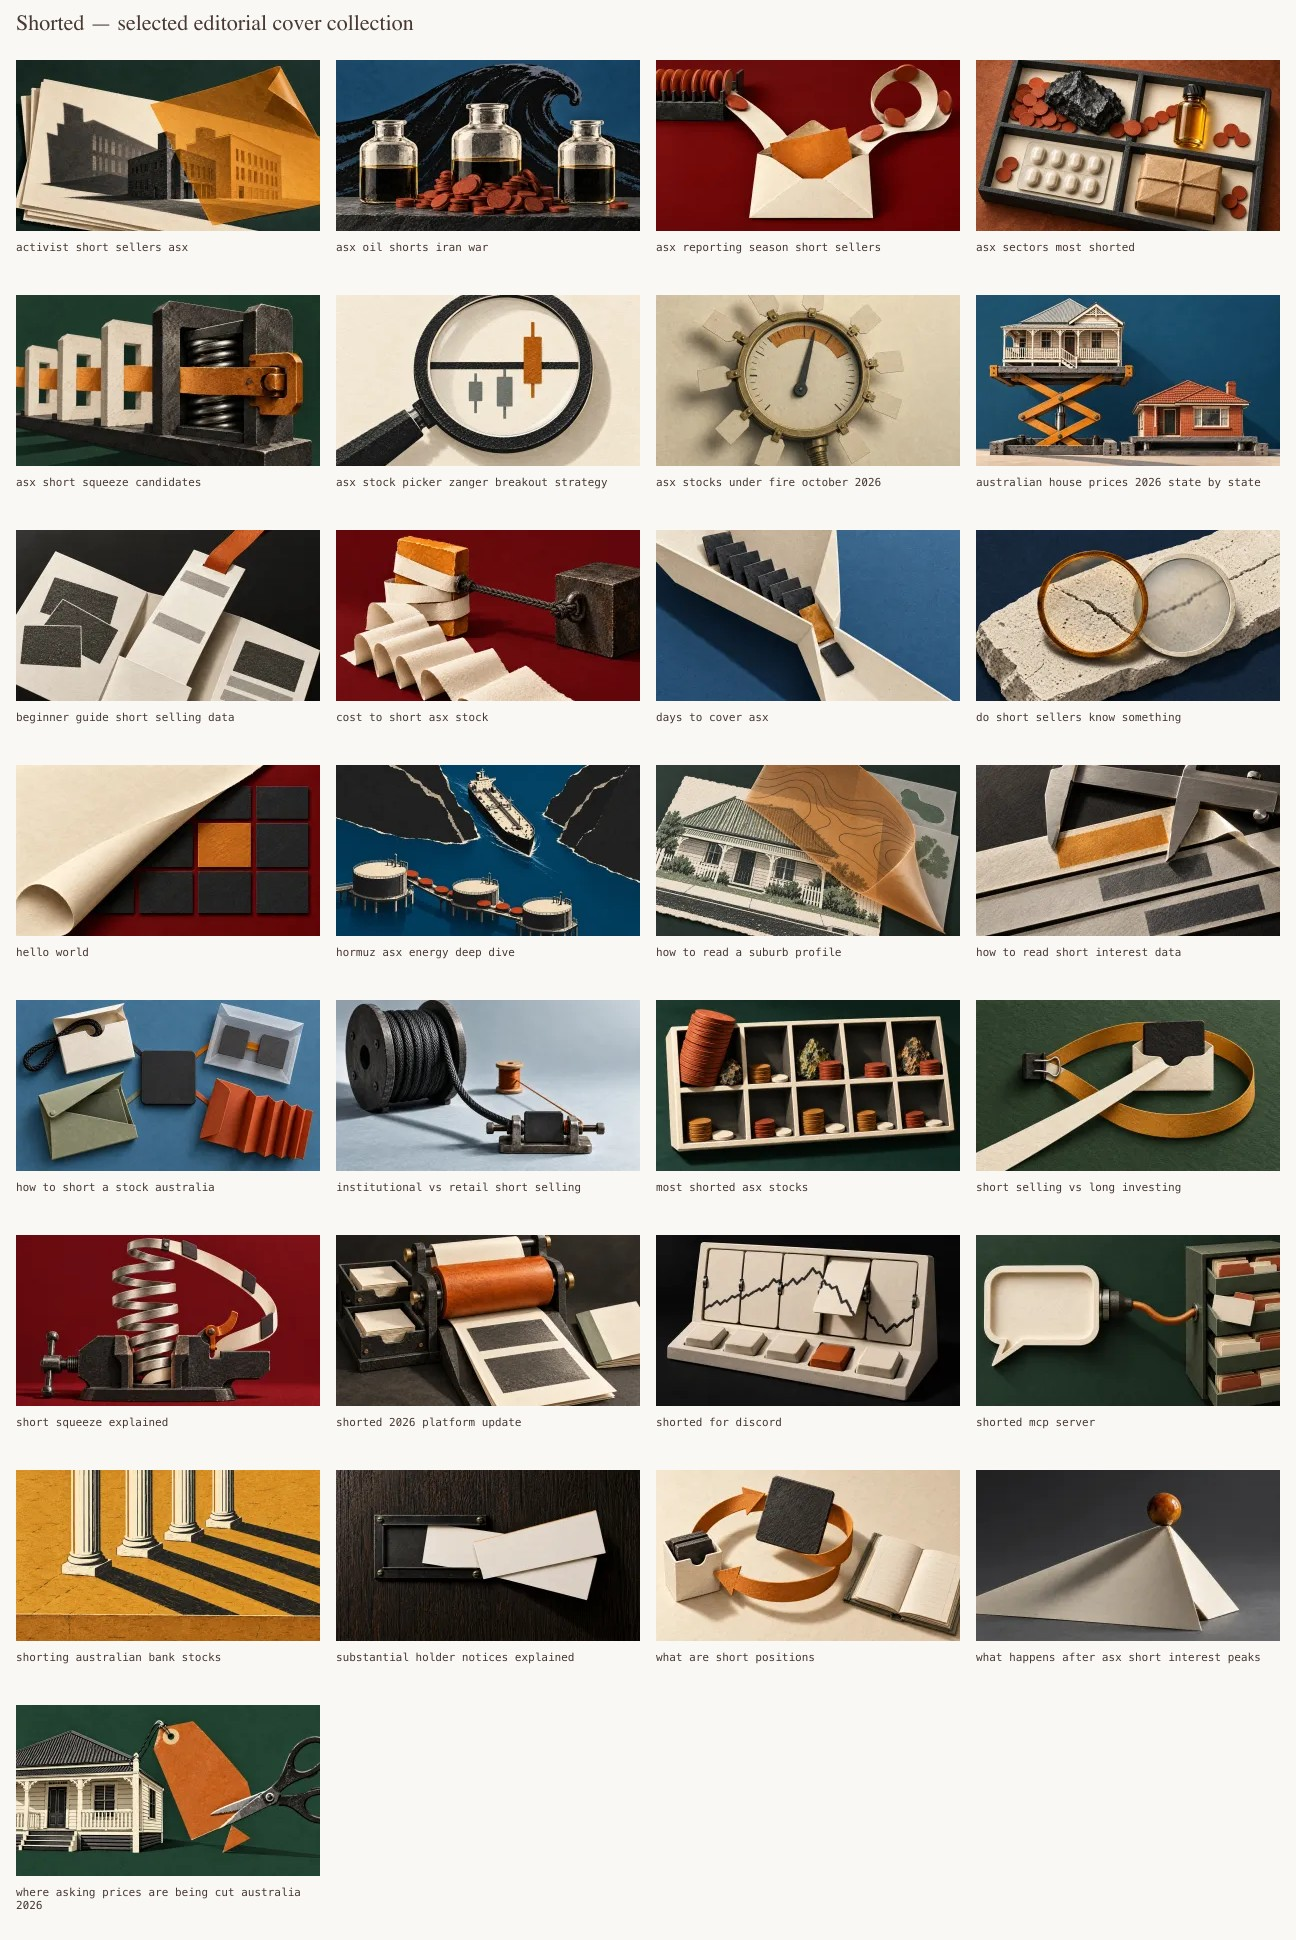
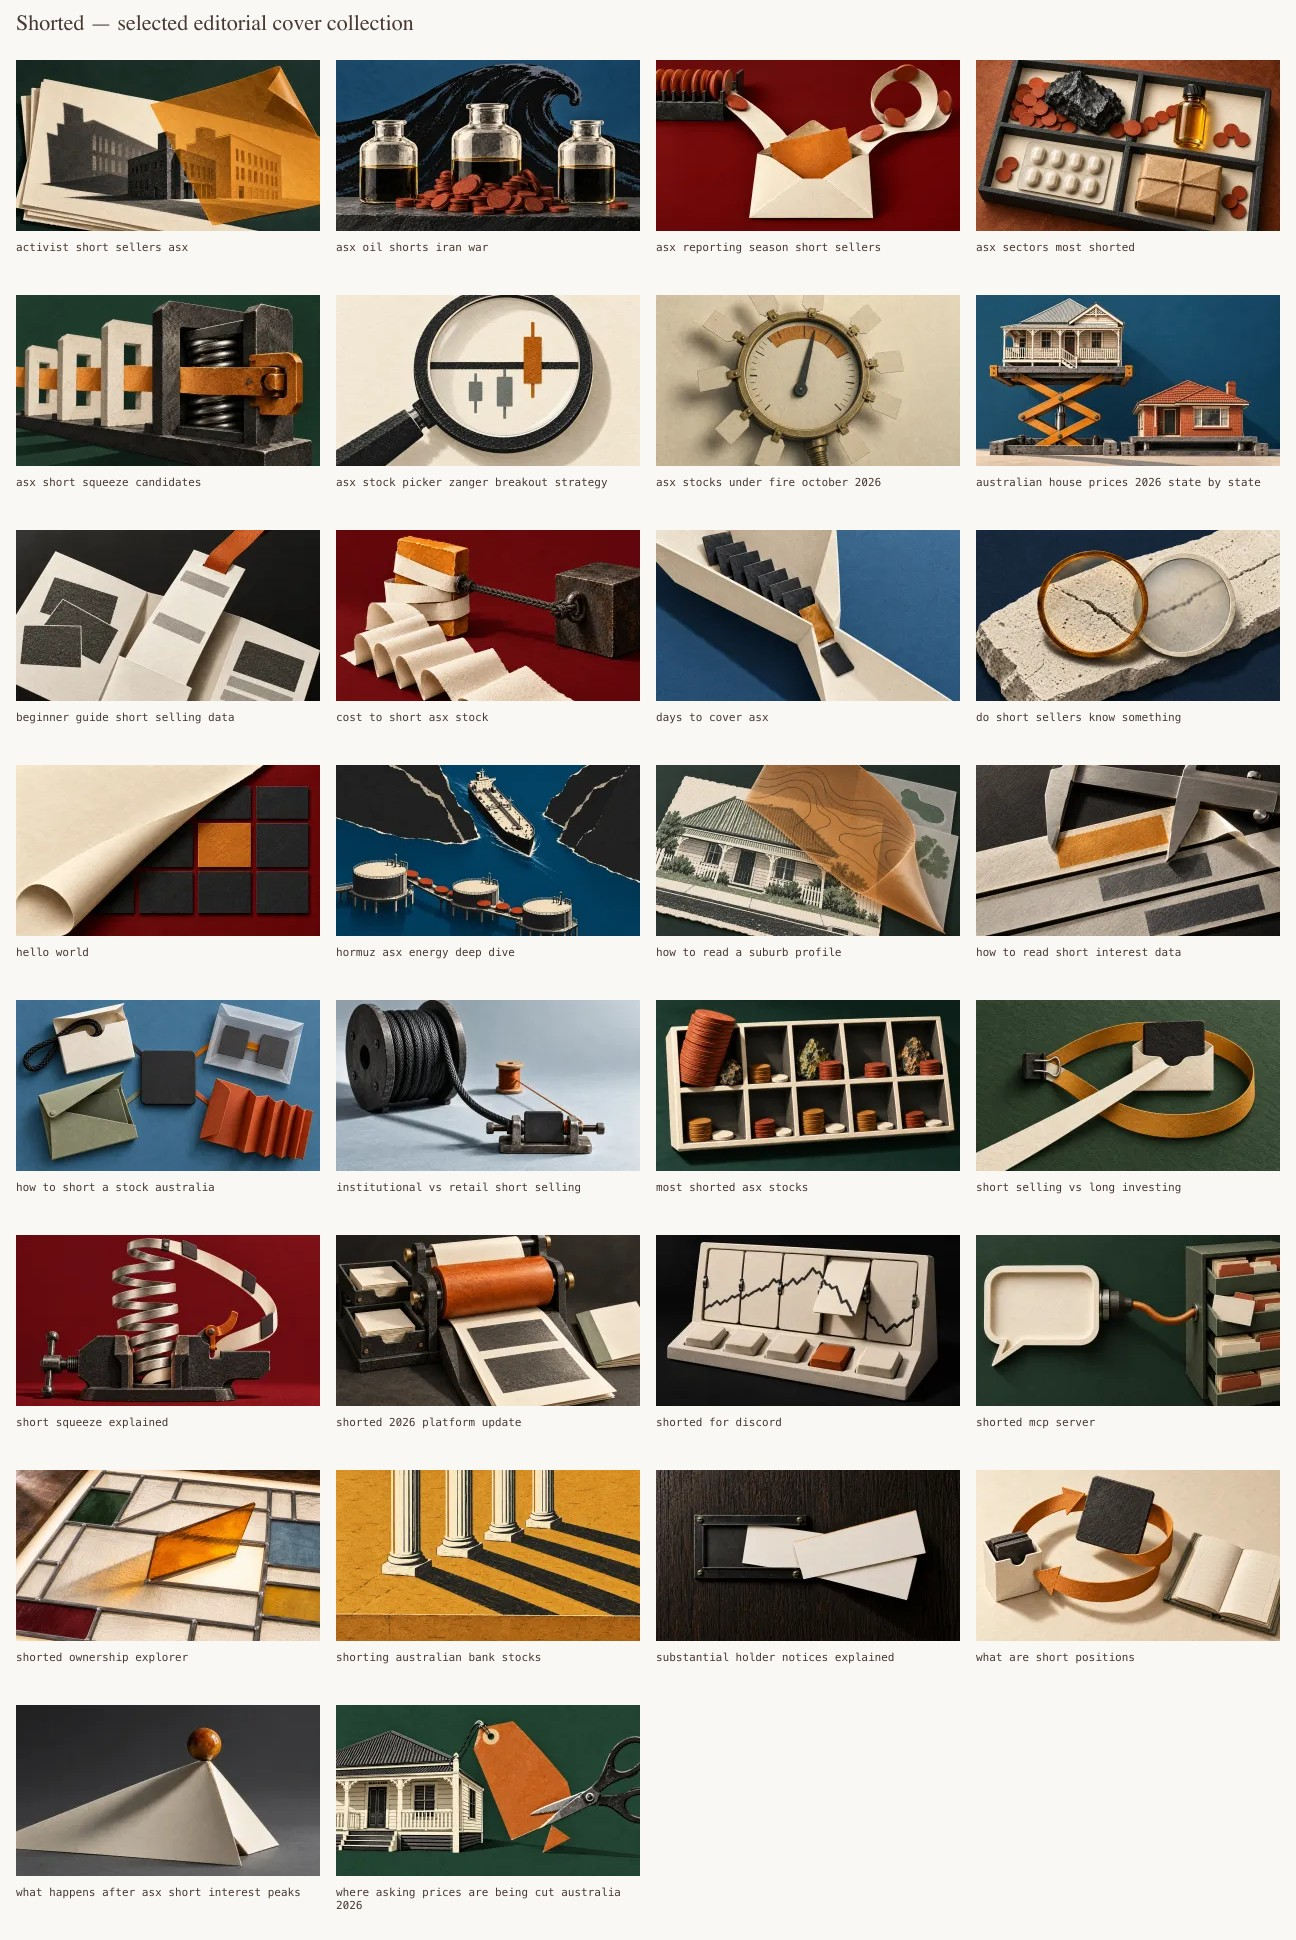
content: who holds ASX stocks, the ownership explorer is live
A product post on the ownership explorer. It starts with one company's
register (PLS Group's nine holders, the Holder Lanes, and why their
figures add to 79.88% while the register prints 62.10%), then covers the
workspace pages, the index fund and super option files, how to read the
figures, and the decisions behind them: withhold rather than guess, the
model second reader, per-holder history only. Every figure is from the
production API, read on 6 November, as at 5 November, and carries its
own date.

Cover v1: a modern leadlight on a glazier's light table, mostly clear
glass, with one burnt-amber pane being set into place. Generated with
Codex's built-in image_gen; the prompt, provenance and review are in
output/article-covers/shorted-ownership-explorer.md. The thumbnail
exporter refreshed the manifest, the review sheet and the 160 × 90
proof, and the cover is indexed in the covers README and the art
direction table.

Changed region(s): [[0.0, 0.7423, 0.9877, 0.9897]]

diff --git a/output/article-covers/shorted-ownership-explorer.md b/output/article-covers/shorted-ownership-explorer.md
@@ -1,0 +1,64 @@
+# shorted-ownership-explorer — editorial cover v1
+
+- Mode: Codex built-in `image_gen` via `codex exec` (the `$imagegen` skill in its default built-in tool mode; not the CLI fallback, an API script or `scripts/image-gen`). New generation, no input or reference images, opaque background, 16:9.
+- Run: Codex CLI 0.165.0, `codex exec -m gpt-6-astra -s workspace-write --skip-git-repo-check -`, instructions on stdin (reproduced below), session `01a1b05c-7b02-7081-9c67-ad81f5a8983b` (2026-11-06). One `image_gen` call; the prompt Codex echoed back diffs identical to the prompt below.
[1 lines of base64/hex data omitted]
+- Workspace original: `output/article-covers/shorted-ownership-explorer.png`, 1672 × 941.
+- Final cover: `web/public/assets/blog/shorted-ownership-explorer/cover-editorial-v1.webp`, 1600 × 900, WebP quality 88 (sharp `fit: 'cover'` from the 16:9 original, trimming under one pixel; no letterbox).
+- Thumbnail: from `web/`, `node --import tsx scripts/editorial-thumbnails.mts --slug=shorted-ownership-explorer`.
+- Collection inspected before commissioning: `output/article-covers/review-sheet.jpg`. First cover for this slug; one generation, no revision.
+
+## Editorial brief
+
+Finding → subject → action → caveat: Shorted pieces together who holds each ASX company from separate public disclosures, and leaves clear what none of them shows → a modern geometric leadlight panel on a glazier's light table, mostly clear glass with a few muted coloured panes → the last pane, burnt amber, is being set into its opening, one edge seated in the lead came and the other lifted → the coloured panes stand for the holders of 5% or more that notices name; the clear glass is everyone no notice shows, and pane sizes measure nothing.
+
+Subject: A modern rectilinear leadlight panel (lead came, textured glass) lying flat on a glazier's light table, a dark walnut workbench at one side.
+
+Action: A burnt-amber pane is caught mid-placement, seated along one edge of its opening and lifted on the other, so it stands at a diagonal above the flat panel; the bright empty opening shows beneath it.
+
+Hook: The only tilted shape in a flat, rectilinear panel: the amber pane's diagonal, the bright gap under it and the amber light it casts across the clear glass.
+
+Large shapes: Dark lead lines over a bright warm-white field; a few mid-tone coloured panes at the edges; one saturated amber pane and its cast patch at the centre.
+
+Colour field: Warm paper-white light (a light composition, after the charcoal Discord and dark-oak substantial-holder covers), deep ink green, mineral blue, oxblood and ochre panes, burnt amber.
+
+Material: Materially believable still life: textured glass with faint seeds and coherent refraction, soft grey lead came with soldered joints, even backlight from the table. Glass and lead are new to the collection.
+
+Caveat: An editorial metaphor for a register assembled from disclosures, not a chart, map or interface. Pane sizes are not stakes, and nothing implies a complete register, control or a recommendation. No church window, figures, ornament or Australian symbols; no text, numbers, logos, people or hands.
+
+## Codex instructions (stdin, verbatim)
+
+```text
+Use your built-in image generation tool (image_gen) exactly once to create a NEW image from the prompt below. Pass the prompt to the tool verbatim, as the whole prompt, with a 16:9 landscape size and an opaque background. Do not use any CLI fallback, API script, Python or other generator. Do not edit, create or move any files, and do not run shell commands. When the tool returns, reply with the generated image's file path and the exact prompt you passed.
+
+PROMPT (verbatim, between the markers):
+<<<PROMPT
+(the exact final prompt below)
+PROMPT>>>
+```
+
+## Exact final prompt
+
+```text
+Use case: stylized-concept
+Asset type: 16:9 landscape editorial article cover for Shorted, an Australian financial-data publication; it must also read clearly as a small thumbnail.
+Primary request: Shorted pieces together who holds each listed company from separate public disclosures, and leaves clear what none of them shows. Show a modern geometric leadlight glass panel lying flat on a glazier's light table, seen from a high three-quarter angle. The panel is a modernist arrangement of irregular rectangles and a few angled quadrilaterals of different sizes, joined by soft grey lead came with small soldered joints. Most panes are clear, faintly textured glass that shows the even warm-white light beneath. Four or five panes are muted coloured glass: deep ink green, mineral blue, oxblood and ochre. One opening, slightly right of centre, is still being filled: a burnt-amber glass pane is caught mid-placement, its lower edge seated in the lead channel and its upper edge lifted, so it stands at a clear diagonal above the flat panel. The bright empty opening beneath it, and the amber patch of light the lifted pane casts across the clear glass, are the focal point.
+Composition: The panel and the lifted amber pane fill about two thirds of the frame; the amber pane and its opening sit inside the central 80% of the image, with a quiet pocket of clear glass around them. A dark walnut workbench frames the light table at one side. The amber pane is the only tilted shape in an otherwise flat panel. Build large simple value shapes first: dark lead lines over a bright field, a few mid-tone coloured panes, one saturated amber pane.
+Style: Materially believable editorial still life, close and calm. Real glass with coherent refraction and faint seeds, lead came with crisp soldered joints, soft even backlight from the table and one low daylight from the upper left. Warm paper-white light, charcoal lead, restrained colour. No lens flare, haze, bloom, cinematic glow or neon.
+Construction: Every pane sits inside the lead came. The amber pane is one flat, unbroken piece of glass resting in the came channel along its lower edge, not floating, fused or bent. The came lines meet at plausible soldered joints, and reflections and the amber cast patch agree with the light.
+Caveat: An editorial metaphor for a register assembled from disclosures, not a chart, map or interface; pane sizes measure nothing. No church window, arches, figures, flowers, ornament, religious imagery or Australian symbols. No text, letters, numbers, logos, watermark, people or hands anywhere.
+```
+
+## Acceptance review
+
+Selected. Inspected at full size, at 320 × 180 and 160 × 90, and side by side with hello-world v2, substantial-holder-notices-explained v3, shorted-for-discord v1 and shorted-mcp-server v2.
+
+- Subject and action: a modern geometric leadlight on a light table, most panes clear textured glass, four muted coloured panes (ink green, mineral blue, ochre, oxblood) at the edges, and one burnt-amber pane swung up out of its opening on a diagonal, the bright empty opening beneath it.
+- Value at 160 × 90: the amber pane is the only saturated shape and reads first; the bright opening and the amber cast patch hold the eye on it; the lead lines give the panel its structure without competing.
+- Construction: the amber pane is one flat piece of glass hinged along the left edge of its opening, which it shares with the lead came, and lifted along its right edge; its projected shape is consistent with that rotation and the opening it leaves. Joints carry solder; nothing is fused, floating or bent.
+- Caveat: no text, numbers, logos, figures, arches or religious imagery; the panes are rectangles of no particular proportion, and most of the panel is clear.
+- Central 80%: measured on the 1600 × 900 export, the amber pane spans 42.8% to 78.7% of the width and 19.1% to 64.3% of the height, and its opening reaches 81.9% of the width.
+- Collection: the only glass-and-lead cover and a light field among dark neighbours. Its nearest motif is hello-world's grid of charcoal tiles with one amber tile on oxblood; this one is translucent glass on a light field, irregular rather than a grid, and its amber piece is lifted out of the plane rather than set flat in it.
+- Residuals, accepted: the prompt asked for a pane seated along its lower edge and a daylight from the upper left; the pane is seated along its left edge, and the amber patch falls to the left, so the light reads as coming from the right. Nothing else in the image contradicts that light, and neither difference shows at card size.
+
+AI-generated editorial illustration, not a photograph or handmade leadlight.

diff --git a/docs/blog-thumbnail-directions.md b/docs/blog-thumbnail-directions.md
@@ -78,6 +78,7 @@ All 24 blog posts now use this construct, with topic-specific versioned `cover-e
 | `short-squeeze-explained` | An expanded pale steel spring rises from an industrial jaw beside an open amber latch; a visible joint connects it to an ivory share-return ribbon against oxblood. | Forced buying feeds price rises and further covering. Keep the loop intelligible, with no suggestion every crowded short will squeeze. |
 | `shorted-2026-platform-update` | A close, mounted amber print roller feeds large ivory report panels from subordinate source trays against charcoal. | This is a product update. The cover is an organising/publishing metaphor; the article retains its actual product screenshots. Never invent a dashboard interface. |
 | `shorted-mcp-server` | An ivory conversation frame connects through a continuous amber cable with visible fittings to four plain record drawers on ink green. | MCP gives assistants structured access to sourced records. Avoid a robot mascot, glowing brain or invented provider logos. |
+| `shorted-ownership-explorer` | A modern geometric leadlight lies on a glazier's light table, mostly clear glass with a few muted coloured panes; one burnt-amber pane is swung up out of its bright opening, mid-placement. | The explorer assembles each company's register from separate disclosures and leaves clear what none of them shows. Pane sizes are not stakes; no church window, chart, map or interface. |
 | `what-are-short-positions` | A dominant amber borrow-and-return loop with two arrows carries a charcoal share tile beside an ivory lending pocket and plain ledger. | The foundational article connects shorting mechanics with Australian disclosure and regulation. No decorative ASIC seal or implication of regulator endorsement. |
 | `where-asking-prices-are-being-cut-australia-2026` | A close ivory Australian weatherboard house supports an oversized amber tag; large charcoal scissors trim it, leaving a clear offcut against ink green. | Vendors are revising asking prices within a sampled listings panel. Cut the tag, never the building; no numerical loss baked into the illustration. |
 

diff --git a/output/article-covers/README.md b/output/article-covers/README.md
@@ -32,6 +32,7 @@ Each prompt file records the exact generation and revision prompts, built-in mod
 - [short-squeeze-explained (v3)](short-squeeze-explained-v3.md)
 - [shorted-2026-platform-update (v2)](shorted-2026-platform-update-v2.md)
 - [shorted-mcp-server (v2)](shorted-mcp-server-v2.md)
+- [shorted-ownership-explorer (v1)](shorted-ownership-explorer.md)
 - [what-are-short-positions (v2)](what-are-short-positions-v2.md)
 - [where-asking-prices-are-being-cut-australia-2026 (v2)](where-asking-prices-are-being-cut-australia-2026-v2.md)
 
